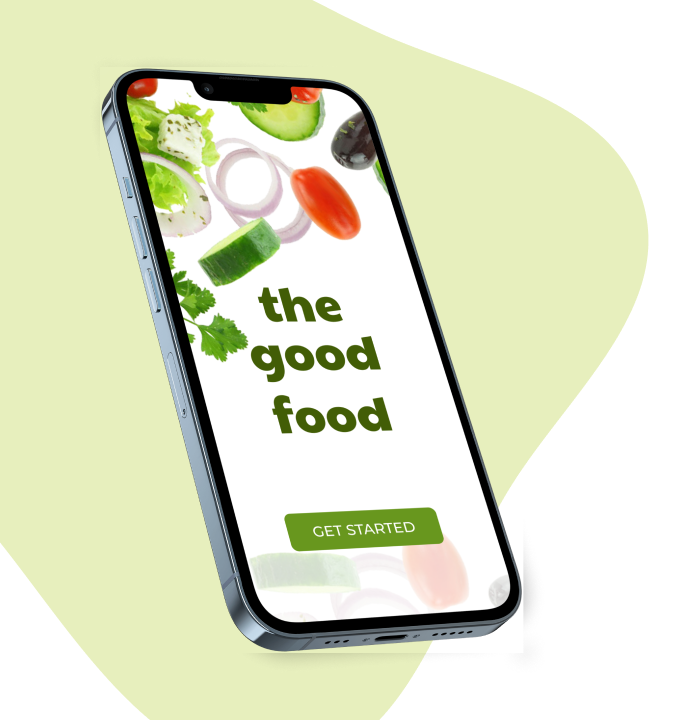
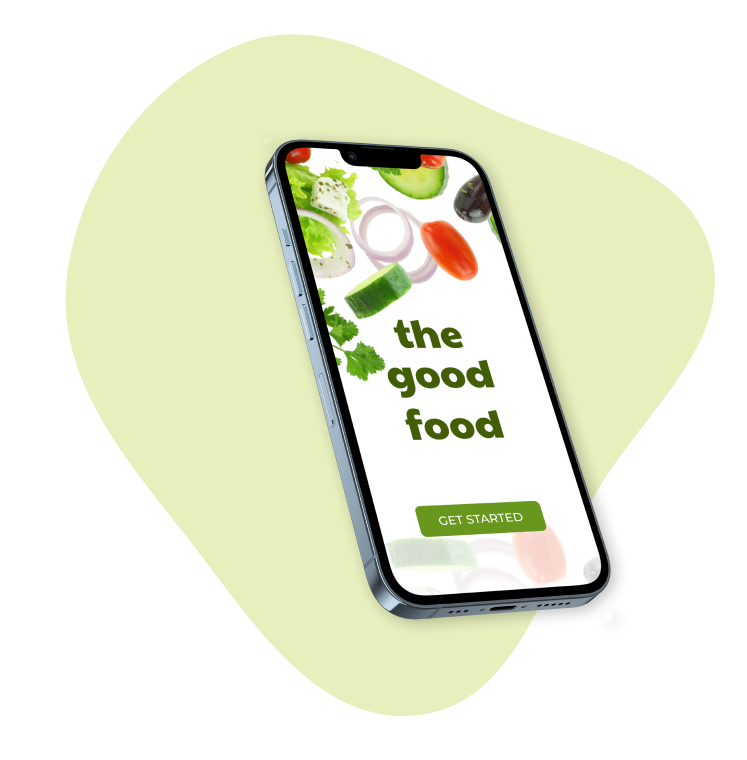
corrected phone image

diff --git a/css/style.css b/css/style.css
@@ -91,7 +91,7 @@ main {
 
 main .about {
   padding: 2rem 0;
-  background-image: url("https://images.unsplash.com/photo-1579492450119-80542d516179?ixlib=rb-1.2.1&ixid=MnwxMjA3fDB8MHxwaG90by1wYWdlfHx8fGVufDB8fHx8&auto=format&fit=crop&w=870&q=80");
+  background-image: url(../images/grey-background.png);
   background-position: center;
   background-size: contain;
   background-repeat: repeat;
@@ -111,7 +111,7 @@ main .picture img#sml {
 }
 
 main p.heading {
-  font-size: 2.3rem;
+  font-size: 2.7rem;
   text-transform: uppercase;
   line-height: 1;
 }
@@ -168,6 +168,13 @@ main .offers .offer-item .offer-heading {
 
 main .offers .offer-item p.para {
   margin: 0.3rem 0;
+}
+
+main .download .picture {
+  position: relative;
+  width: 35rem;
+  right: 135px;
+  margin-top: rem;
 }
 
 main .download button {

diff --git a/css/style.scss b/css/style.scss
@@ -72,7 +72,7 @@ main {
 
   .about {
     padding: 2rem 0;
-    background-image: url("https://images.unsplash.com/photo-1579492450119-80542d516179?ixlib=rb-1.2.1&ixid=MnwxMjA3fDB8MHxwaG90by1wYWdlfHx8fGVufDB8fHx8&auto=format&fit=crop&w=870&q=80");
+    background-image: url(../images/grey-background.png);
     background-position: center;
     background-size: contain;
     background-repeat: repeat;
@@ -148,6 +148,13 @@ main {
   }
 
   .download {
+    .picture {
+      position: relative;
+      width: 35rem;
+      right: 135px;
+      margin-top: rem;
+    }
+
     button {
       @include flex-between;
 

diff --git a/index.html b/index.html
@@ -44,6 +44,11 @@
     </header>
 
     <main>
+      <!-- <img
+        id#="bg"
+        src="images/grey-background.png"
+        alt="grey background image"
+      /> -->
       <section class="about">
         <div class="container">
           <div class="picture">
@@ -173,7 +178,7 @@
       </section>
       <section class="download">
         <div class="picture">
-          <img src="images/mobile-phone.png" alt="iPhone" />
+          <img src="images/phone.png" id="phone" alt="iPhone" />
         </div>
 
         <div class="container">

diff --git a/css/_variables.scss b/css/_variables.scss
@@ -29,7 +29,7 @@ $colors: (
 //Font-Size
 
 $fs-reg: 1rem;
-$fs-heading: 2.3rem;
+$fs-heading: 2.7rem;
 $fs-sml-heading: 1.2rem;
 
 //Font-Weights
